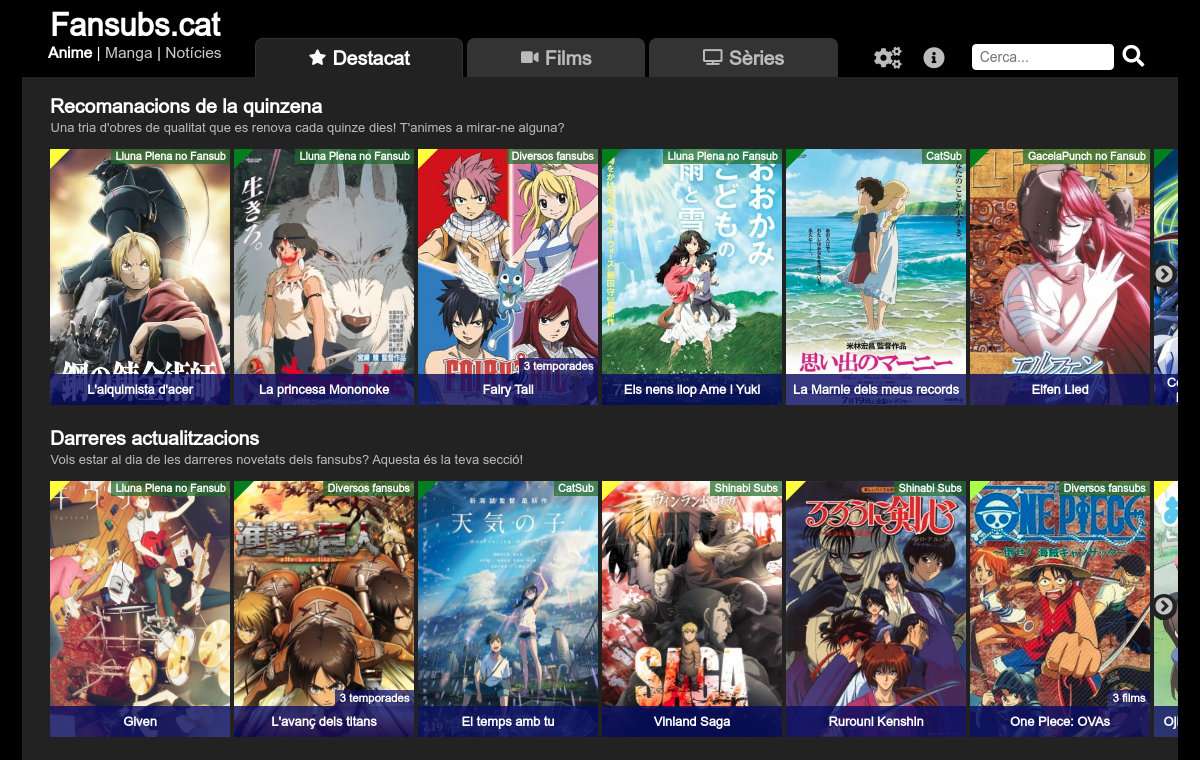
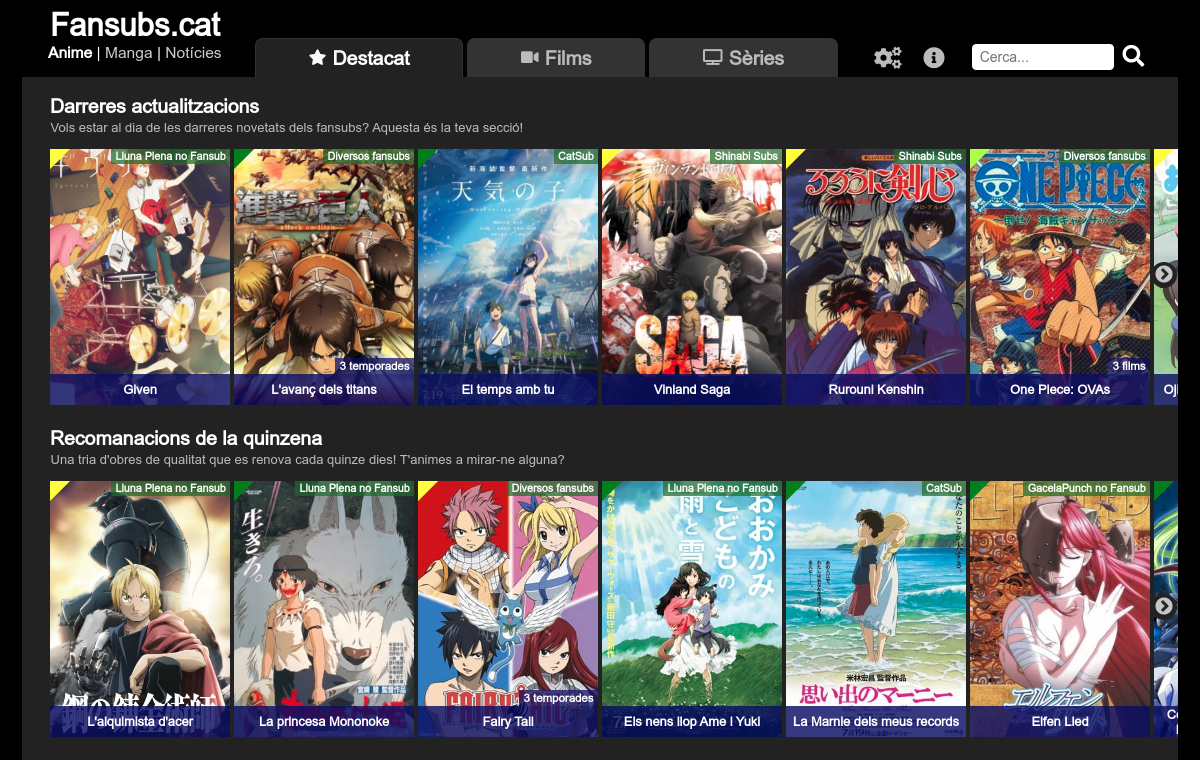
Change section order, change tab color

diff --git a/anime_website/style/anime.css b/anime_website/style/anime.css
@@ -309,7 +309,7 @@ a:hover {
 	font-size: 1.25em;
 	font-weight: bold;
 	color: #BBB;
-	background-color: #333;
+	background-color: #000;
 	flex-grow: 1;
 	text-align: center;
 	border-top-left-radius: 0.4em;

diff --git a/anime_website/index.php b/anime_website/index.php
@@ -73,7 +73,7 @@ switch ($header_tab){
 			$base_query . " WHERE s.type='movie'$cookie_extra_conditions GROUP BY s.id ORDER BY last_updated DESC LIMIT $max_items",
 			$base_query . " WHERE s.type='movie'$cookie_extra_conditions GROUP BY s.id ORDER BY s.name ASC");
 		$carousel=array(TRUE, FALSE);
-		$specific_version=array(FALSE, FALSE);
+		$specific_version=array(TRUE, FALSE);
 		break;
 	case 'series':
 		$sections=array("Darreres actualitzacions", "Catàleg de sèries");
@@ -82,7 +82,7 @@ switch ($header_tab){
 			$base_query . " WHERE s.type='series'$cookie_extra_conditions GROUP BY s.id ORDER BY last_updated DESC LIMIT $max_items",
 			$base_query . " WHERE s.type='series'$cookie_extra_conditions GROUP BY s.id ORDER BY s.name ASC");
 		$carousel=array(TRUE, FALSE);
-		$specific_version=array(FALSE, FALSE);
+		$specific_version=array(TRUE, FALSE);
 		break;
 	case 'search':
 		$query = (!empty($_GET['query']) ? escape($_GET['query']) : "");
@@ -107,17 +107,17 @@ ORDER BY MAX(a.views) DESC, a.series_id ASC");
 			$in_clause.=','.$row['series_id'];
 		}
 		mysqli_free_result($result);
-		$sections=array("Recomanacions de la quinzena", "Darreres actualitzacions", "A l'atzar", "Més populars", "Més actuals", "Més ben valorades");
-		$descriptions=array("Una tria d'obres de qualitat que es renova cada quinze dies! T'animes a mirar-ne alguna?","Vols estar al dia de les darreres novetats dels fansubs? Aquesta és la teva secció!", "T'agrada provar sort? Aquí tens un seguit d'obres triades a l'atzar. Si no te'n convenç cap, actualitza la pàgina i torna-hi!", "Aquestes són les obres que més han vist els nostres usuaris.", "T'agrada l'anime d'actualitat? Aquestes són les obres més noves que tenim subtitulades.", "Les obres més ben puntuades pels usuaris de MyAnimeList amb versió subtitulada en català.");
+		$sections=array("Darreres actualitzacions", "Recomanacions de la quinzena", "A l'atzar", "Més populars", "Més actuals", "Més ben valorades");
+		$descriptions=array("Vols estar al dia de les darreres novetats dels fansubs? Aquesta és la teva secció!", "Una tria d'obres de qualitat que es renova cada quinze dies! T'animes a mirar-ne alguna?", "T'agrada provar sort? Aquí tens un seguit d'obres triades a l'atzar. Si no te'n convenç cap, actualitza la pàgina i torna-hi!", "Aquestes són les obres que més han vist els nostres usuaris durant la darrera quinzena.", "T'agrada l'anime d'actualitat? Aquestes són les obres més noves que tenim subtitulades.", "Les obres més ben puntuades pels usuaris de MyAnimeList amb versió subtitulada en català.");
 		$queries=array(
-			$base_query . " WHERE v.id IN (SELECT version_id FROM recommendation)$cookie_extra_conditions GROUP BY s.id ORDER BY RAND(".(date('W')%2==1 ? date('W') : (date('W')-1)).")",
 			$base_query . " WHERE 1$cookie_extra_conditions GROUP BY s.id ORDER BY last_updated DESC LIMIT $max_items",
+			$base_query . " WHERE v.id IN (SELECT version_id FROM recommendation)$cookie_extra_conditions GROUP BY s.id ORDER BY RAND()",
 			$base_query . " WHERE 1$cookie_extra_conditions GROUP BY s.id ORDER BY RAND() LIMIT $max_items",
 			$base_query . " WHERE s.id IN ($in_clause)$cookie_extra_conditions GROUP BY s.id ORDER BY FIELD(s.id,$in_clause) LIMIT $max_items",
 			$base_query . " WHERE 1$cookie_extra_conditions GROUP BY s.id ORDER BY s.air_date DESC LIMIT $max_items",
 			$base_query . " WHERE 1$cookie_extra_conditions GROUP BY s.id ORDER BY s.score DESC LIMIT $max_items");
 		$carousel=array(TRUE, TRUE, TRUE, TRUE, TRUE, TRUE);
-		$specific_version=array(TRUE, FALSE, FALSE, FALSE, FALSE, FALSE);
+		$specific_version=array(TRUE, TRUE, FALSE, FALSE, FALSE, FALSE);
 		break;
 }
 
